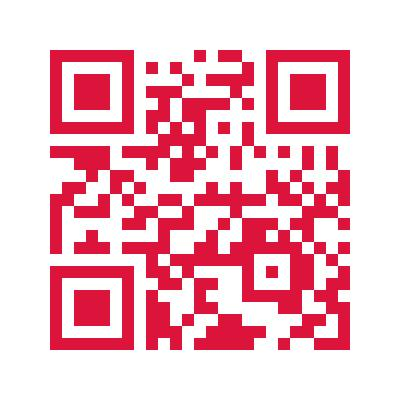
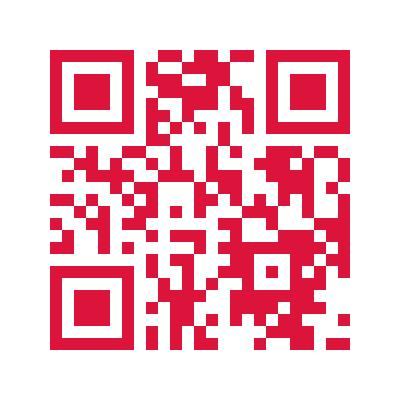
部分bug

Changed region(s): [[0.33, 0.12, 0.9, 0.9], [0.12, 0.36, 0.33, 0.66]]

diff --git a/wx/pages/code/code.js b/wx/pages/code/code.js
@@ -1,28 +1,21 @@
 // pages/home/code.js
 var util = require('../../utils/util.js');
 Page({
-
-  /**
-   * 页面的初始数据
-   */
   data: {
     imgUrl:'../../img/code.jpg',
-    stuId: wx.getStorageSync('stuId'),
+    stuId: '',
     name: wx.getStorageSync('name'),
     isHealth: 0,
   },
-
   /**
    * 生命周期函数--监听页面加载
    */
   onLoad: function (options) {
-    setInterval(() => {
-      var time = util.formatTime(new Date())
-    //为页面中time赋值
     this.setData({
-      time: time
+      stuId : wx.getStorageSync('stuId'),
+      name : wx.getStorageSync('name')
     })
-    }, 1000);
+
     
   },
 
@@ -37,6 +30,17 @@ Page({
    * 生命周期函数--监听页面显示
    */
   onShow: function () {
+    this.setData({
+      stuId : wx.getStorageSync('stuId'),
+      name : wx.getStorageSync('name')
+    })
+    setInterval(() => {
+      var time = util.formatTime(new Date())
+    //为页面中time赋值
+    this.setData({
+      time: time
+    })
+    }, 1000);
     if(wx.getStorageSync("state") == this.formatDate(new Date())){
       this.setData({
         isHealth:1
@@ -53,6 +57,7 @@ Page({
         name:this.data.name,
         isHealth: this.data.isHealth
       },
+      success: function (d) {}
     })
   },
   formatDate: function(date) {
@@ -65,38 +70,4 @@ Page({
     day[1] ? day=day : day='0' + day
     return year+"-"+month+"-"+day
    },
-  /**
-   * 生命周期函数--监听页面隐藏
-   */
-  onHide: function () {
-
-  },
-
-  /**
-   * 生命周期函数--监听页面卸载
-   */
-  onUnload: function () {
-
-  },
-
-  /**
-   * 页面相关事件处理函数--监听用户下拉动作
-   */
-  onPullDownRefresh: function () {
-    this.onShow();
-  },
-
-  /**
-   * 页面上拉触底事件的处理函数
-   */
-  onReachBottom: function () {
-
-  },
-
-  /**
-   * 用户点击右上角分享
-   */
-  onShareAppMessage: function () {
-
-  }
 })

diff --git a/wx/pages/report/report.js b/wx/pages/report/report.js
@@ -100,7 +100,7 @@ Page({
               title: d.data,
               icon: 'success',
               success: function () {
-                if(that.data.radio1 != "发热" && that.data.radio2 == "无需隔离"){
+                if(that.data.normal != "发热" && that.data.isolation == "无需隔离"){
                   wx.setStorageSync("state",that.formatDate(new Date()))
                 }else{
                   wx.setStorageSync("state","1999-01-01")

diff --git a/wx/pages/notice/notice.js b/wx/pages/notice/notice.js
@@ -39,7 +39,7 @@ Page({
             success: function () {
               setTimeout(function() {
                 wx.switchTab({
-                  url: '../person/person'
+                  url: '../home/home'
                 })
              }, 2000);
             }

diff --git a/springboot/src/main/java/com/school/index/controller/toCodeController.java b/springboot/src/main/java/com/school/index/controller/toCodeController.java
@@ -70,7 +70,7 @@ public class toCodeController {
 
     @RequestMapping("/showCode")
     @ResponseBody
-    public Res showCode(String stuId,String name, Integer isHealth) throws Exception {
+    public void showCode(String stuId,String name, Integer isHealth) throws Exception {
         String health;
         if (isHealth == 1) {
             health = "健康";
@@ -90,6 +90,5 @@ public class toCodeController {
         // 生成二维码
         File outputFile = new File("C:/Users/Administrator/Desktop//毕设相关/school//wx/img" + File.separator + "code.jpg");
         toCodeController.writeToFile(bitMatrix, format, outputFile,isHealth);
-        return Res.success(outputFile);
     }
 }
